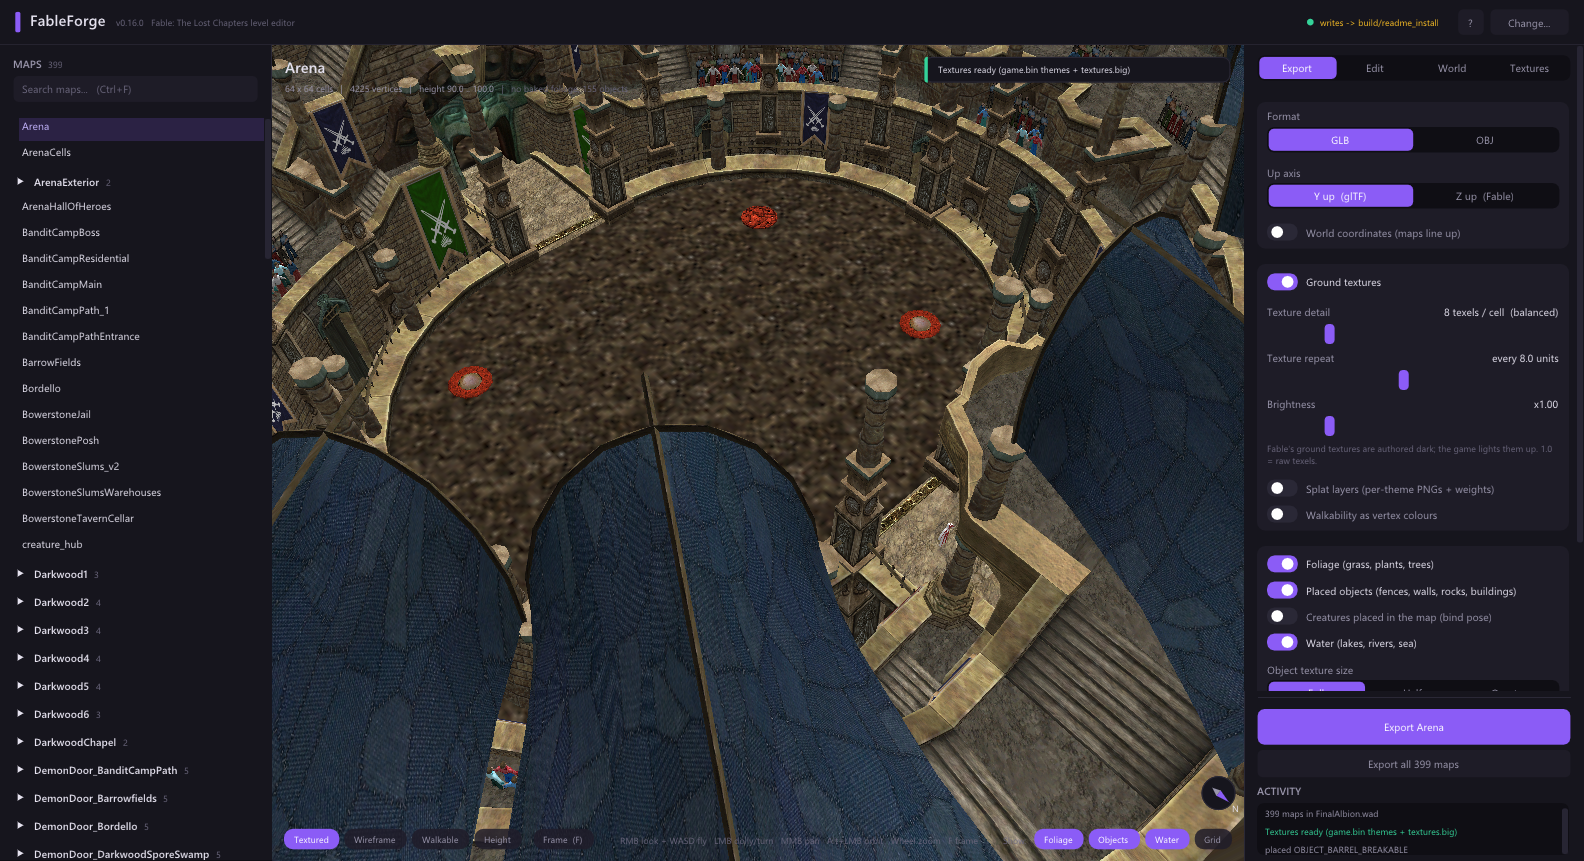
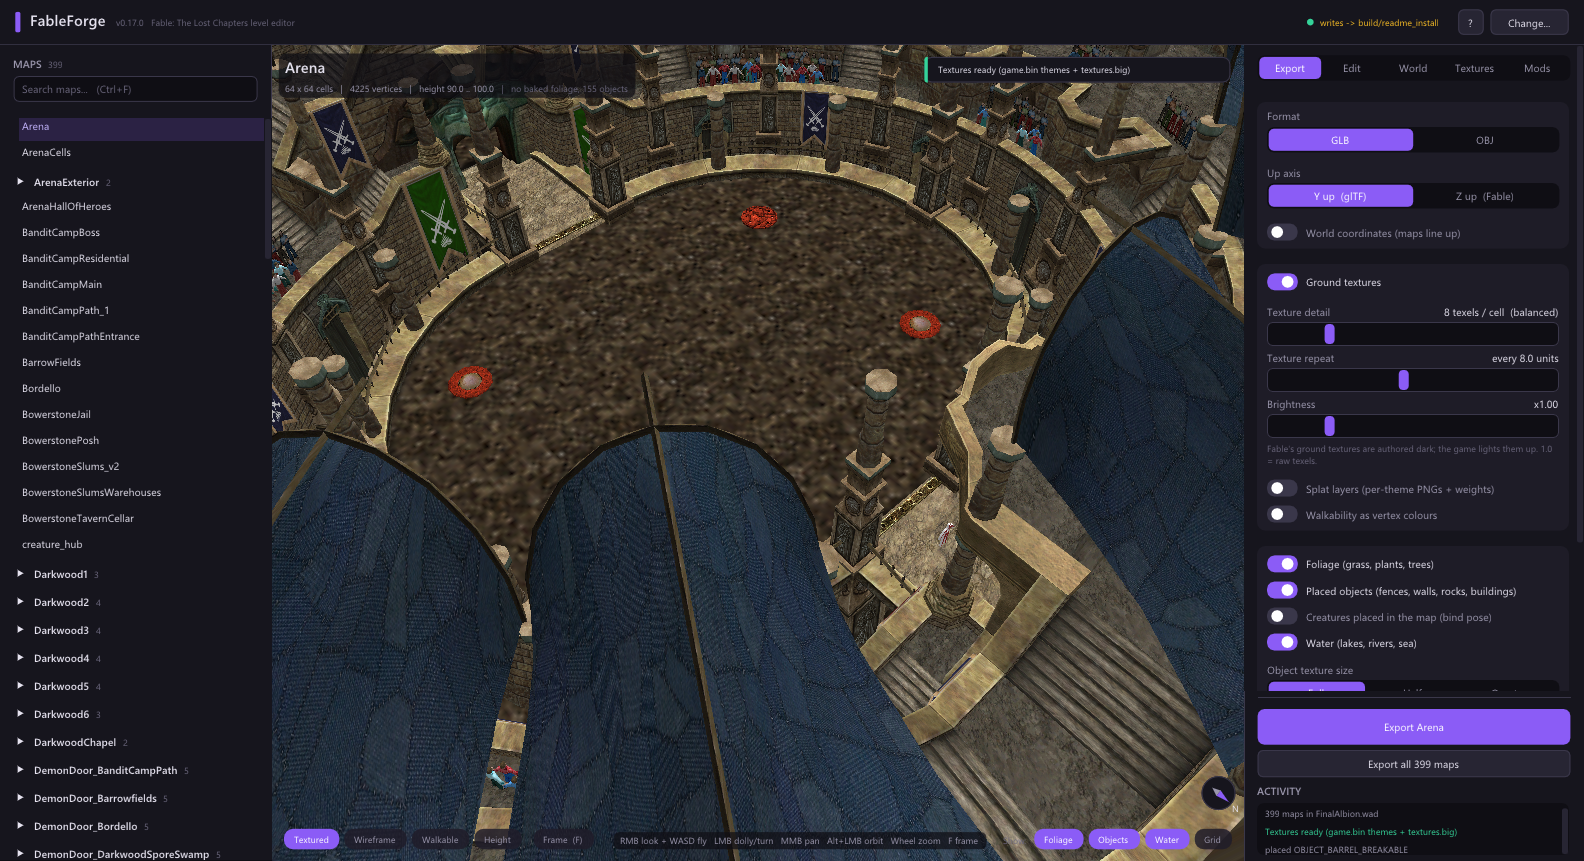
docs: 0.17.0 -- README sections for custom models and mod packs, screenshots from the polished UI

diff --git a/tools/package.py b/tools/package.py
@@ -8,7 +8,7 @@ import argparse, os, shutil, subprocess, sys, zipfile
 
 def main():
     ap = argparse.ArgumentParser()
-    ap.add_argument("--version", default="0.16.0")
+    ap.add_argument("--version", default="0.17.0")
     ap.add_argument("--no-check", action="store_true")
     a = ap.parse_args()
     if not a.no_check and subprocess.run([sys.executable, "tools/check_all.py"]).returncode != 0:

diff --git a/README.md b/README.md
@@ -202,6 +202,27 @@ Everything is written the way the game wrote it: untouched things stay byte-iden
 moved things get their position/basis lines rewritten in retail float spelling, new
 things use retail field order and the per-file UID namespace.
 
+## Custom models
+
+*Import model* (Edit tab, Objects) or `forge mesh-import <model.glb|.gltf|.obj> <NAME>
+[--texture png]` turns a static model into a placeable `OBJECT_<NAME>`: the mesh is
+appended to `graphics.big` with a collision hull (the hero walks into it, not through it),
+its texture to `textures.big`, and a definition to `game.bin` copied from a donor object.
+Model space is metres; the game's is centimetres, so the importer scales by 100.
+Static meshes only for now: no skinning, no animation.
+
+## Mod packs
+
+The **Mods** tab keeps one load order for every kind of Fable mod: `.fmp` packs,
+game-root folders, bsdiff `.patch` files, `.qst` edits, EgoCore `Mods/<Name>/` folders
+(DLL + text `.def` + `.resource` bank overrides + partial TNGs) and whole-file packs like
+Project Seasons. Mods merge record by record (a `game.bin` field, a thing by UID, a
+`.qst` statement, a `text.big` key, an `FSE/quests.lua` entry) and later mods win.
+*Check conflicts* lists every contested record in one report where you pick the winner.
+*Build and deploy* rebuilds the whole order onto the retail files; *Undeploy* puts them
+back. Things a mod placed are badged in the editor with the mod's name. Shell:
+`forge-tools mods list/add/remove/move/enable/disable/build/deploy/undeploy/conflicts`.
+
 ## Building
 
 ```

diff --git a/docs/CLI.md b/docs/CLI.md
@@ -1,6 +1,6 @@
 # Command line reference
 
-`FableForge 0.16.0 -- Fable: The Lost Chapters level editor (maps -> .glb / .obj, levels, terrain, textures)`
+`FableForge 0.17.0 -- Fable: The Lost Chapters level editor (maps -> .glb / .obj, levels, terrain, textures)`
 
 Generated by `tools/gen_cli_reference.py` from `FableForge --help`; edit `src/main.cpp`'s usage text, not this file.
 Every command takes `--install <fable-root>` (default: the Steam / GOG install found on this machine).
